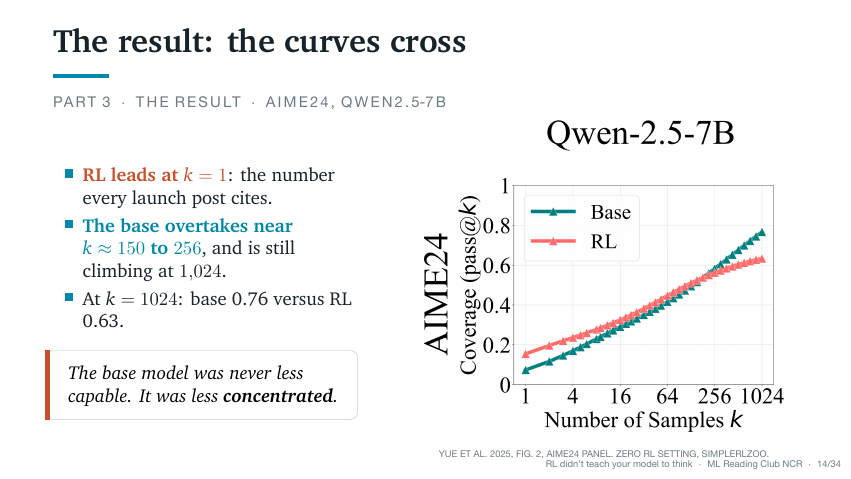
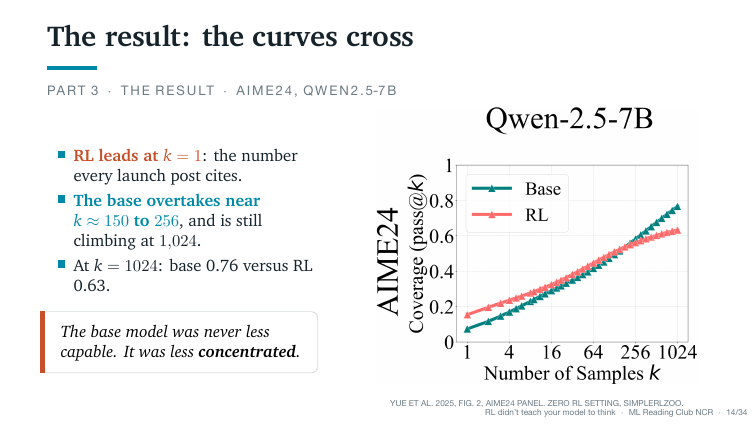
Blog(post12): scrollable full 34-slide deck (no PDF sidebar), X tweet embed for the event, fix headcount to 8

diff --git a/musings/post12.html b/musings/post12.html
@@ -37,19 +37,18 @@
         </figure>
 
         <div class="insight-box" style="background:rgba(120,140,255,0.08);">
-          <strong>The event.</strong> This was Session 01 of the <a href="https://luma.com/v7bm4m7q" target="_blank" rel="noopener">ML Reading Club NCR</a>, which I started and co-host with <strong>Ankit Dwivedi</strong> and <strong>Anjanay Saxena</strong>, in Noida. I organised it end to end and lined up the venue myself: our venue partner was <a href="https://lyric.tech" target="_blank" rel="noopener">Lyric (lyric.tech)</a>. We capped it at 15 to 20 people on purpose, so it stays a real discussion with whiteboard derivations and honest disagreement rather than a lecture. 18 people showed up for the first one. A short recap is on <a href="https://x.com/SAkasxh/status/2083628510074265863?s=20" target="_blank" rel="noopener">my X post here</a>.
+          <strong>The event.</strong> This was Session 01 of the <a href="https://luma.com/v7bm4m7q" target="_blank" rel="noopener">ML Reading Club NCR</a>, which I started and co-host with <strong>Ankit Dwivedi</strong> and <strong>Anjanay Saxena</strong>, in Noida. I organised it end to end and lined up the venue myself: our venue partner was <a href="https://lyric.tech" target="_blank" rel="noopener">Lyric (lyric.tech)</a>. We kept it deliberately small, a real discussion with whiteboard derivations and honest disagreement rather than a lecture. Just 8 of us in the room for the first one. A short recap is on <a href="https://x.com/SAkasxh/status/2083628510074265863?s=20" target="_blank" rel="noopener">my X post here</a>.
         </div>
 
-        <div style="display:grid; grid-template-columns:repeat(auto-fit,minmax(240px,1fr)); gap:16px; align-items:start; margin:1.25rem 0;">
-          <figure style="margin:0;">
-            <img loading="lazy" src="images/rlc-group.png" alt="ML Reading Club NCR Session 01 group photo" style="width:100%; border-radius:12px; display:block;">
-            <figcaption>Session 01, the room. Kept small on purpose, 18 of us.</figcaption>
-          </figure>
-          <figure style="margin:0;">
-            <img loading="lazy" src="images/rlc-poster.png" alt="ML Reading Club NCR poster, venue partner Lyric" style="width:100%; border-radius:12px; display:block;">
-            <figcaption>Venue partner <a href="https://lyric.tech" target="_blank" rel="noopener">Lyric</a>. Proof it happened: <a href="https://luma.com/v7bm4m7q" target="_blank" rel="noopener">the event on Luma</a>.</figcaption>
-          </figure>
+        <div style="text-align:center; margin:1.25rem 0;">
+          <img loading="lazy" src="images/rlc-poster.png" alt="ML Reading Club NCR, venue partner Lyric" style="width:100%; max-width:340px; border-radius:12px; display:inline-block;">
+          <div style="font-size:0.85em; opacity:0.75; margin-top:6px;">Session 01, venue partner <a href="https://lyric.tech" target="_blank" rel="noopener">Lyric</a> &middot; <a href="https://luma.com/v7bm4m7q" target="_blank" rel="noopener">Event on Luma</a></div>
         </div>
+
+        <div style="display:flex; justify-content:center; margin:1.5rem 0;">
+          <blockquote class="twitter-tweet"><p lang="en" dir="ltr">Event worked out wonderful, <br><br>I spoke on:<br><br> &quot;Does Reinforcement Learning Really Incentivize Reasoning Capacity in LLMs&#13;Beyond the Base Model?&quot;<br><br>And my boi <a href="https://x.com/AnkitDwivedi25?ref_src=twsrc%5Etfw">@AnkitDwivedi25</a> spoke on DPO! <a href="https://t.co/vwEwhVj8oR">https://t.co/vwEwhVj8oR</a> <a href="https://t.co/p31MVCNCCt">pic.twitter.com/p31MVCNCCt</a></p>&mdash; S Akash (@SAkasxh) <a href="https://x.com/SAkasxh/status/2083628510074265863?ref_src=twsrc%5Etfw">August 1, 2026</a></blockquote>
+        </div>
+        <script async src="https://platform.x.com/widgets.js" charset="utf-8"></script>
 
         <p>My talk was Talk 2 of 2 that evening, and I picked a paper I had a personal stake in. I use PPO in my own work (a hallucination aware reranker at the IIT Patna AIML Lab), so a paper arguing that RL might not do what everyone thinks it does deserved a careful thirty minutes.</p>
 
@@ -99,15 +98,45 @@
 
         <p>RL is not pointless. pass@1 is the metric your product lives on, and packaging capability into a single reliable attempt is genuine value. The claim is narrower and sharper than the hype: RL buys you <em>reliability</em>, not new <em>boundaries</em>. If your task has a checker, price base-model-plus-sampling against an RL model before you assume RL wins. And if you want new capability, reach for a teacher or search, not another RL run.</p>
 
-        <h2>A few slides from the talk</h2>
-        <div style="display:grid; grid-template-columns:repeat(auto-fit,minmax(320px,1fr)); gap:14px; margin:1rem 0 1.1rem;">
-          <figure style="margin:0;"><img loading="lazy" src="images/slides/slide-1.png" alt="Title slide: RL didn't teach your model to think" style="width:100%; border:1px solid rgba(0,0,0,0.1); border-radius:10px; display:block;"><figcaption>The paper: Yue et al., NeurIPS 2025 Oral.</figcaption></figure>
-          <figure style="margin:0;"><img loading="lazy" src="images/slides/slide-7.png" alt="AlphaGo's Move 37" style="width:100%; border:1px solid rgba(0,0,0,0.1); border-radius:10px; display:block;"><figcaption>Move 37: RL at its best genuinely discovers.</figcaption></figure>
-          <figure style="margin:0;"><img loading="lazy" src="images/slides/slide-14.png" alt="The pass@k crossover chart" style="width:100%; border:1px solid rgba(0,0,0,0.1); border-radius:10px; display:block;"><figcaption>The crossover: the base overtakes at large k.</figcaption></figure>
-          <figure style="margin:0;"><img loading="lazy" src="images/slides/slide-19.png" alt="Sharpening, not expanding" style="width:100%; border:1px solid rgba(0,0,0,0.1); border-radius:10px; display:block;"><figcaption>RL sharpens the distribution, it does not expand it.</figcaption></figure>
-          <figure style="margin:0;"><img loading="lazy" src="images/slides/slide-32.png" alt="Epilogue: how 2025 and 2026 models got so good" style="width:100%; border:1px solid rgba(0,0,0,0.1); border-radius:10px; display:block;"><figcaption>Epilogue: where the real gains came from.</figcaption></figure>
+        <h2>The full deck</h2>
+        <p style="opacity:0.85; margin-bottom:0.6rem;">All 34 slides, scroll straight through them here.</p>
+        <div style="max-height:78vh; overflow-y:auto; -webkit-overflow-scrolling:touch; border:1px solid rgba(0,0,0,0.12); border-radius:12px; background:#fff; padding:8px;">
+          <img loading="lazy" src="images/slides/slide-01.png" alt="Slide 1" style="width:100%; aspect-ratio:16/9; display:block; margin-bottom:8px;">
+          <img loading="lazy" src="images/slides/slide-02.png" alt="Slide 2" style="width:100%; aspect-ratio:16/9; display:block; margin-bottom:8px;">
+          <img loading="lazy" src="images/slides/slide-03.png" alt="Slide 3" style="width:100%; aspect-ratio:16/9; display:block; margin-bottom:8px;">
+          <img loading="lazy" src="images/slides/slide-04.png" alt="Slide 4" style="width:100%; aspect-ratio:16/9; display:block; margin-bottom:8px;">
+          <img loading="lazy" src="images/slides/slide-05.png" alt="Slide 5" style="width:100%; aspect-ratio:16/9; display:block; margin-bottom:8px;">
+          <img loading="lazy" src="images/slides/slide-06.png" alt="Slide 6" style="width:100%; aspect-ratio:16/9; display:block; margin-bottom:8px;">
+          <img loading="lazy" src="images/slides/slide-07.png" alt="Slide 7" style="width:100%; aspect-ratio:16/9; display:block; margin-bottom:8px;">
+          <img loading="lazy" src="images/slides/slide-08.png" alt="Slide 8" style="width:100%; aspect-ratio:16/9; display:block; margin-bottom:8px;">
+          <img loading="lazy" src="images/slides/slide-09.png" alt="Slide 9" style="width:100%; aspect-ratio:16/9; display:block; margin-bottom:8px;">
+          <img loading="lazy" src="images/slides/slide-10.png" alt="Slide 10" style="width:100%; aspect-ratio:16/9; display:block; margin-bottom:8px;">
+          <img loading="lazy" src="images/slides/slide-11.png" alt="Slide 11" style="width:100%; aspect-ratio:16/9; display:block; margin-bottom:8px;">
+          <img loading="lazy" src="images/slides/slide-12.png" alt="Slide 12" style="width:100%; aspect-ratio:16/9; display:block; margin-bottom:8px;">
+          <img loading="lazy" src="images/slides/slide-13.png" alt="Slide 13" style="width:100%; aspect-ratio:16/9; display:block; margin-bottom:8px;">
+          <img loading="lazy" src="images/slides/slide-14.png" alt="Slide 14" style="width:100%; aspect-ratio:16/9; display:block; margin-bottom:8px;">
+          <img loading="lazy" src="images/slides/slide-15.png" alt="Slide 15" style="width:100%; aspect-ratio:16/9; display:block; margin-bottom:8px;">
+          <img loading="lazy" src="images/slides/slide-16.png" alt="Slide 16" style="width:100%; aspect-ratio:16/9; display:block; margin-bottom:8px;">
+          <img loading="lazy" src="images/slides/slide-17.png" alt="Slide 17" style="width:100%; aspect-ratio:16/9; display:block; margin-bottom:8px;">
+          <img loading="lazy" src="images/slides/slide-18.png" alt="Slide 18" style="width:100%; aspect-ratio:16/9; display:block; margin-bottom:8px;">
+          <img loading="lazy" src="images/slides/slide-19.png" alt="Slide 19" style="width:100%; aspect-ratio:16/9; display:block; margin-bottom:8px;">
+          <img loading="lazy" src="images/slides/slide-20.png" alt="Slide 20" style="width:100%; aspect-ratio:16/9; display:block; margin-bottom:8px;">
+          <img loading="lazy" src="images/slides/slide-21.png" alt="Slide 21" style="width:100%; aspect-ratio:16/9; display:block; margin-bottom:8px;">
+          <img loading="lazy" src="images/slides/slide-22.png" alt="Slide 22" style="width:100%; aspect-ratio:16/9; display:block; margin-bottom:8px;">
+          <img loading="lazy" src="images/slides/slide-23.png" alt="Slide 23" style="width:100%; aspect-ratio:16/9; display:block; margin-bottom:8px;">
+          <img loading="lazy" src="images/slides/slide-24.png" alt="Slide 24" style="width:100%; aspect-ratio:16/9; display:block; margin-bottom:8px;">
+          <img loading="lazy" src="images/slides/slide-25.png" alt="Slide 25" style="width:100%; aspect-ratio:16/9; display:block; margin-bottom:8px;">
+          <img loading="lazy" src="images/slides/slide-26.png" alt="Slide 26" style="width:100%; aspect-ratio:16/9; display:block; margin-bottom:8px;">
+          <img loading="lazy" src="images/slides/slide-27.png" alt="Slide 27" style="width:100%; aspect-ratio:16/9; display:block; margin-bottom:8px;">
+          <img loading="lazy" src="images/slides/slide-28.png" alt="Slide 28" style="width:100%; aspect-ratio:16/9; display:block; margin-bottom:8px;">
+          <img loading="lazy" src="images/slides/slide-29.png" alt="Slide 29" style="width:100%; aspect-ratio:16/9; display:block; margin-bottom:8px;">
+          <img loading="lazy" src="images/slides/slide-30.png" alt="Slide 30" style="width:100%; aspect-ratio:16/9; display:block; margin-bottom:8px;">
+          <img loading="lazy" src="images/slides/slide-31.png" alt="Slide 31" style="width:100%; aspect-ratio:16/9; display:block; margin-bottom:8px;">
+          <img loading="lazy" src="images/slides/slide-32.png" alt="Slide 32" style="width:100%; aspect-ratio:16/9; display:block; margin-bottom:8px;">
+          <img loading="lazy" src="images/slides/slide-33.png" alt="Slide 33" style="width:100%; aspect-ratio:16/9; display:block; margin-bottom:8px;">
+          <img loading="lazy" src="images/slides/slide-34.png" alt="Slide 34" style="width:100%; aspect-ratio:16/9; display:block; margin-bottom:8px;">
         </div>
-        <p><a href="rl-didnt-teach-your-model-to-think.pdf" target="_blank" rel="noopener">Open the full 34-slide deck (PDF) &rarr;</a></p>
+        <p style="margin-top:0.85rem;"><a href="rl-didnt-teach-your-model-to-think.pdf" target="_blank" rel="noopener">Open the deck as a PDF &rarr;</a></p>
 
         <div class="paper-ref">
           <div class="paper-title">Does RL Really Incentivize Reasoning Capacity in LLMs Beyond the Base Model?</div>
